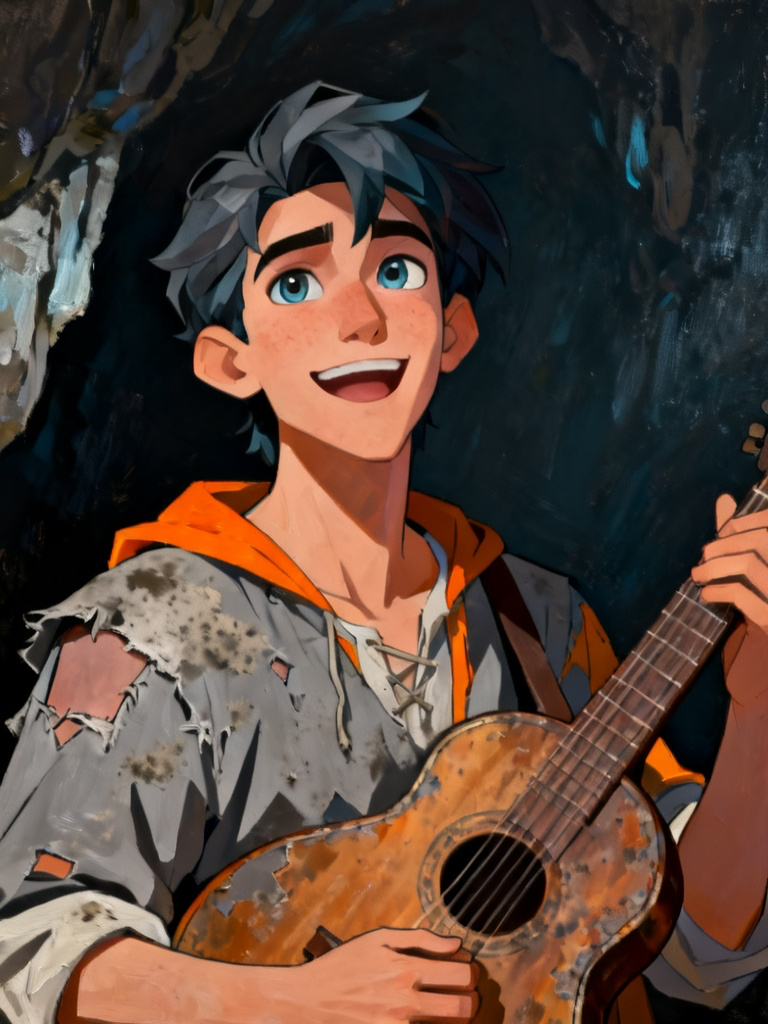
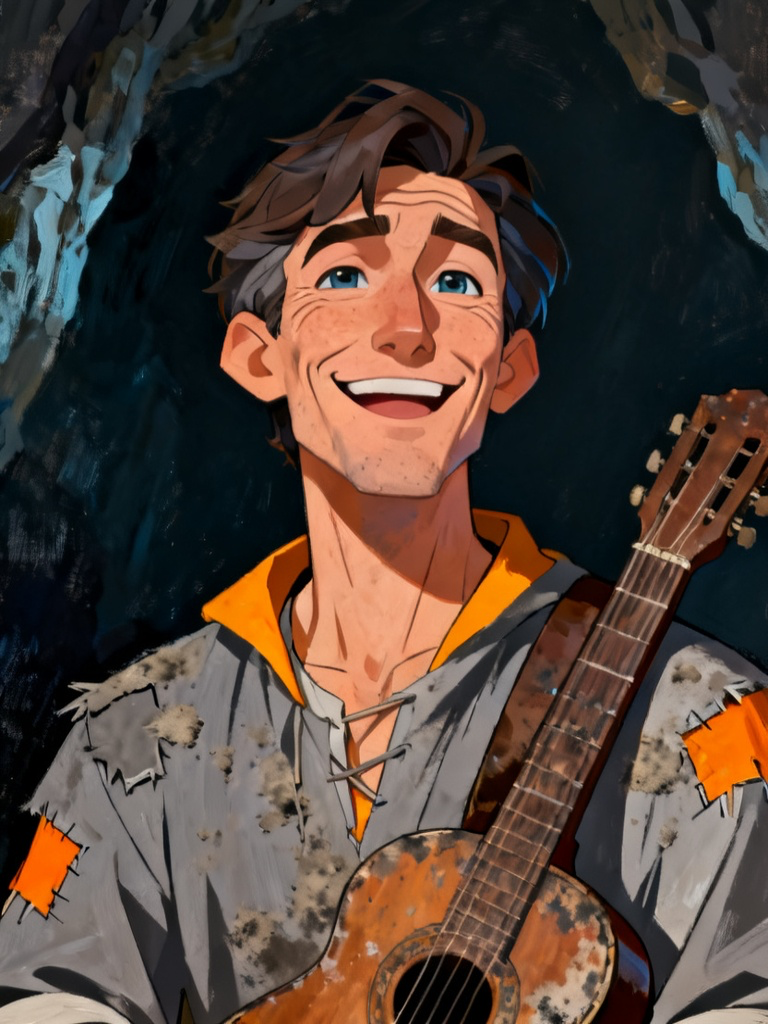
fix: the minstrel is a person again (bust framing) + portrait cache versioning
The rail's small square crop of the old wide-framed portrait centered
on the lute's dark soundhole — reading as a floating eye (a cruel
irony for a character named Wandering Minstrel Eye). Regenerated to
the standard face-centered bust framing in the house register; rail
portrait URLs now carry ?p= for future re-authoring.

diff --git a/public/js/main.js b/public/js/main.js
@@ -119,7 +119,7 @@ function updateRoomRail(response) {
         name: c.name ?? c.slug,
         kind: kindOf(c),
         following: c.following === true,
-        image: portraitDir && c.slug ? `${portraitDir}${c.slug}.png` : undefined,
+        image: portraitDir && c.slug ? `${portraitDir}${c.slug}.png?p=2` : undefined, // bump ?p when a portrait is re-authored (week cache)
       }));
     renderRoomCharacters(people);
   } else if (response.state?.phase && response.state.phase !== 'adventure') {
